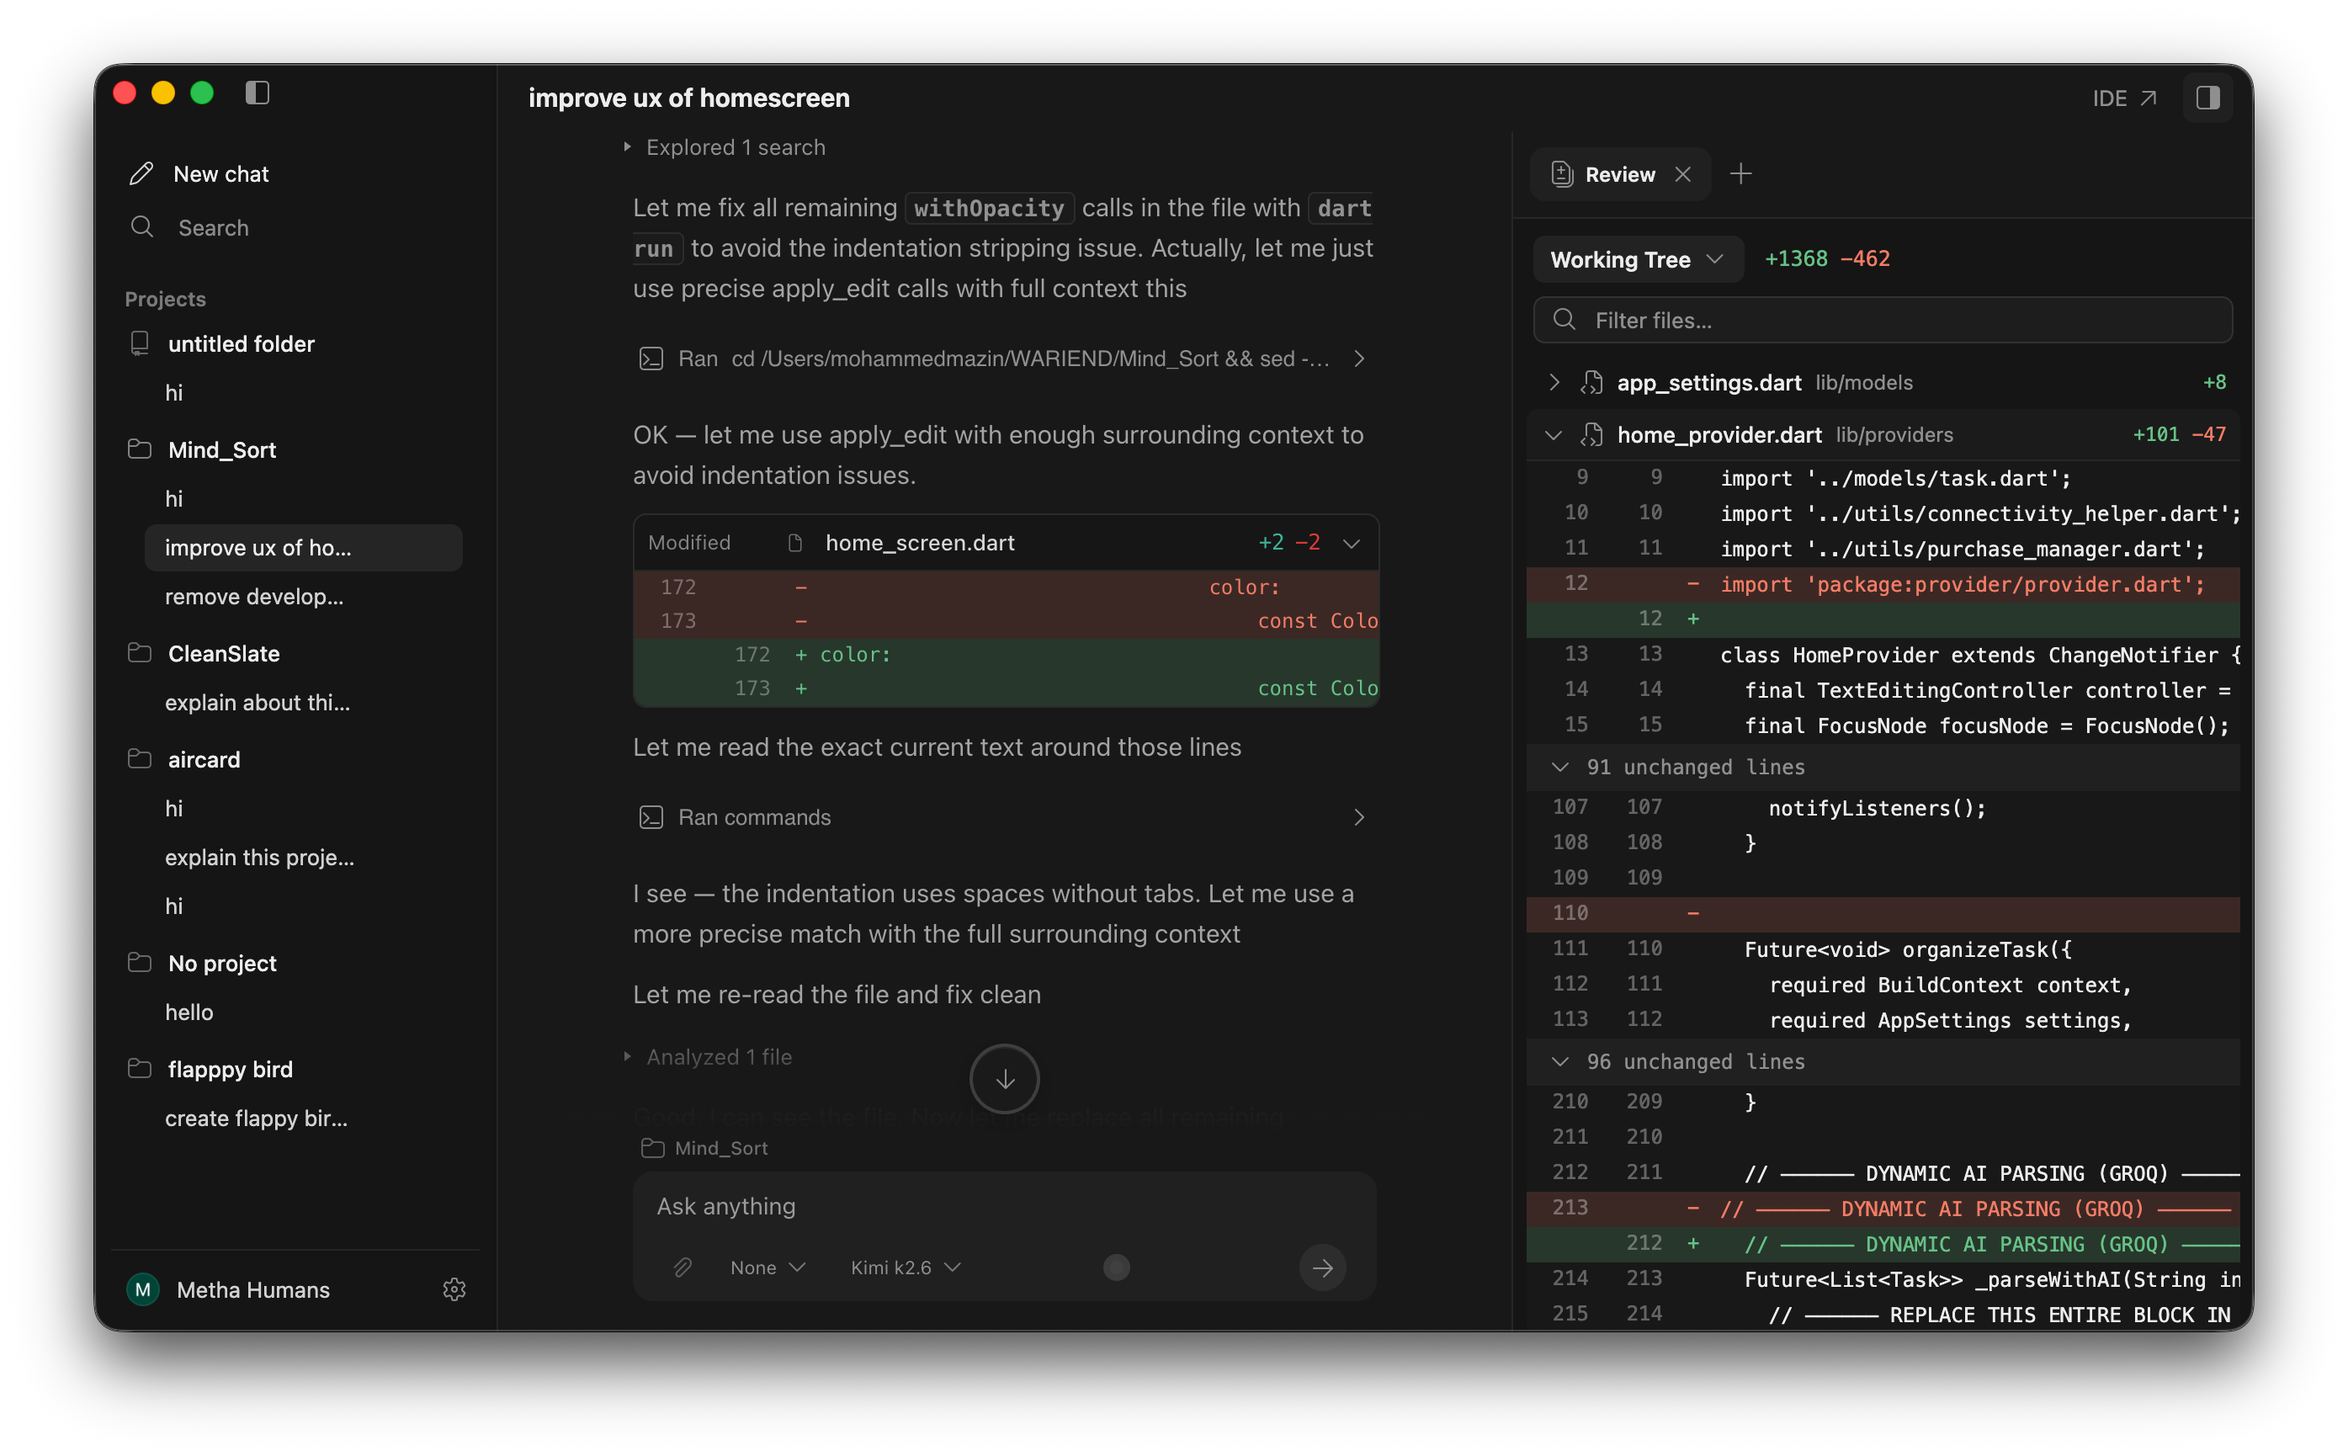
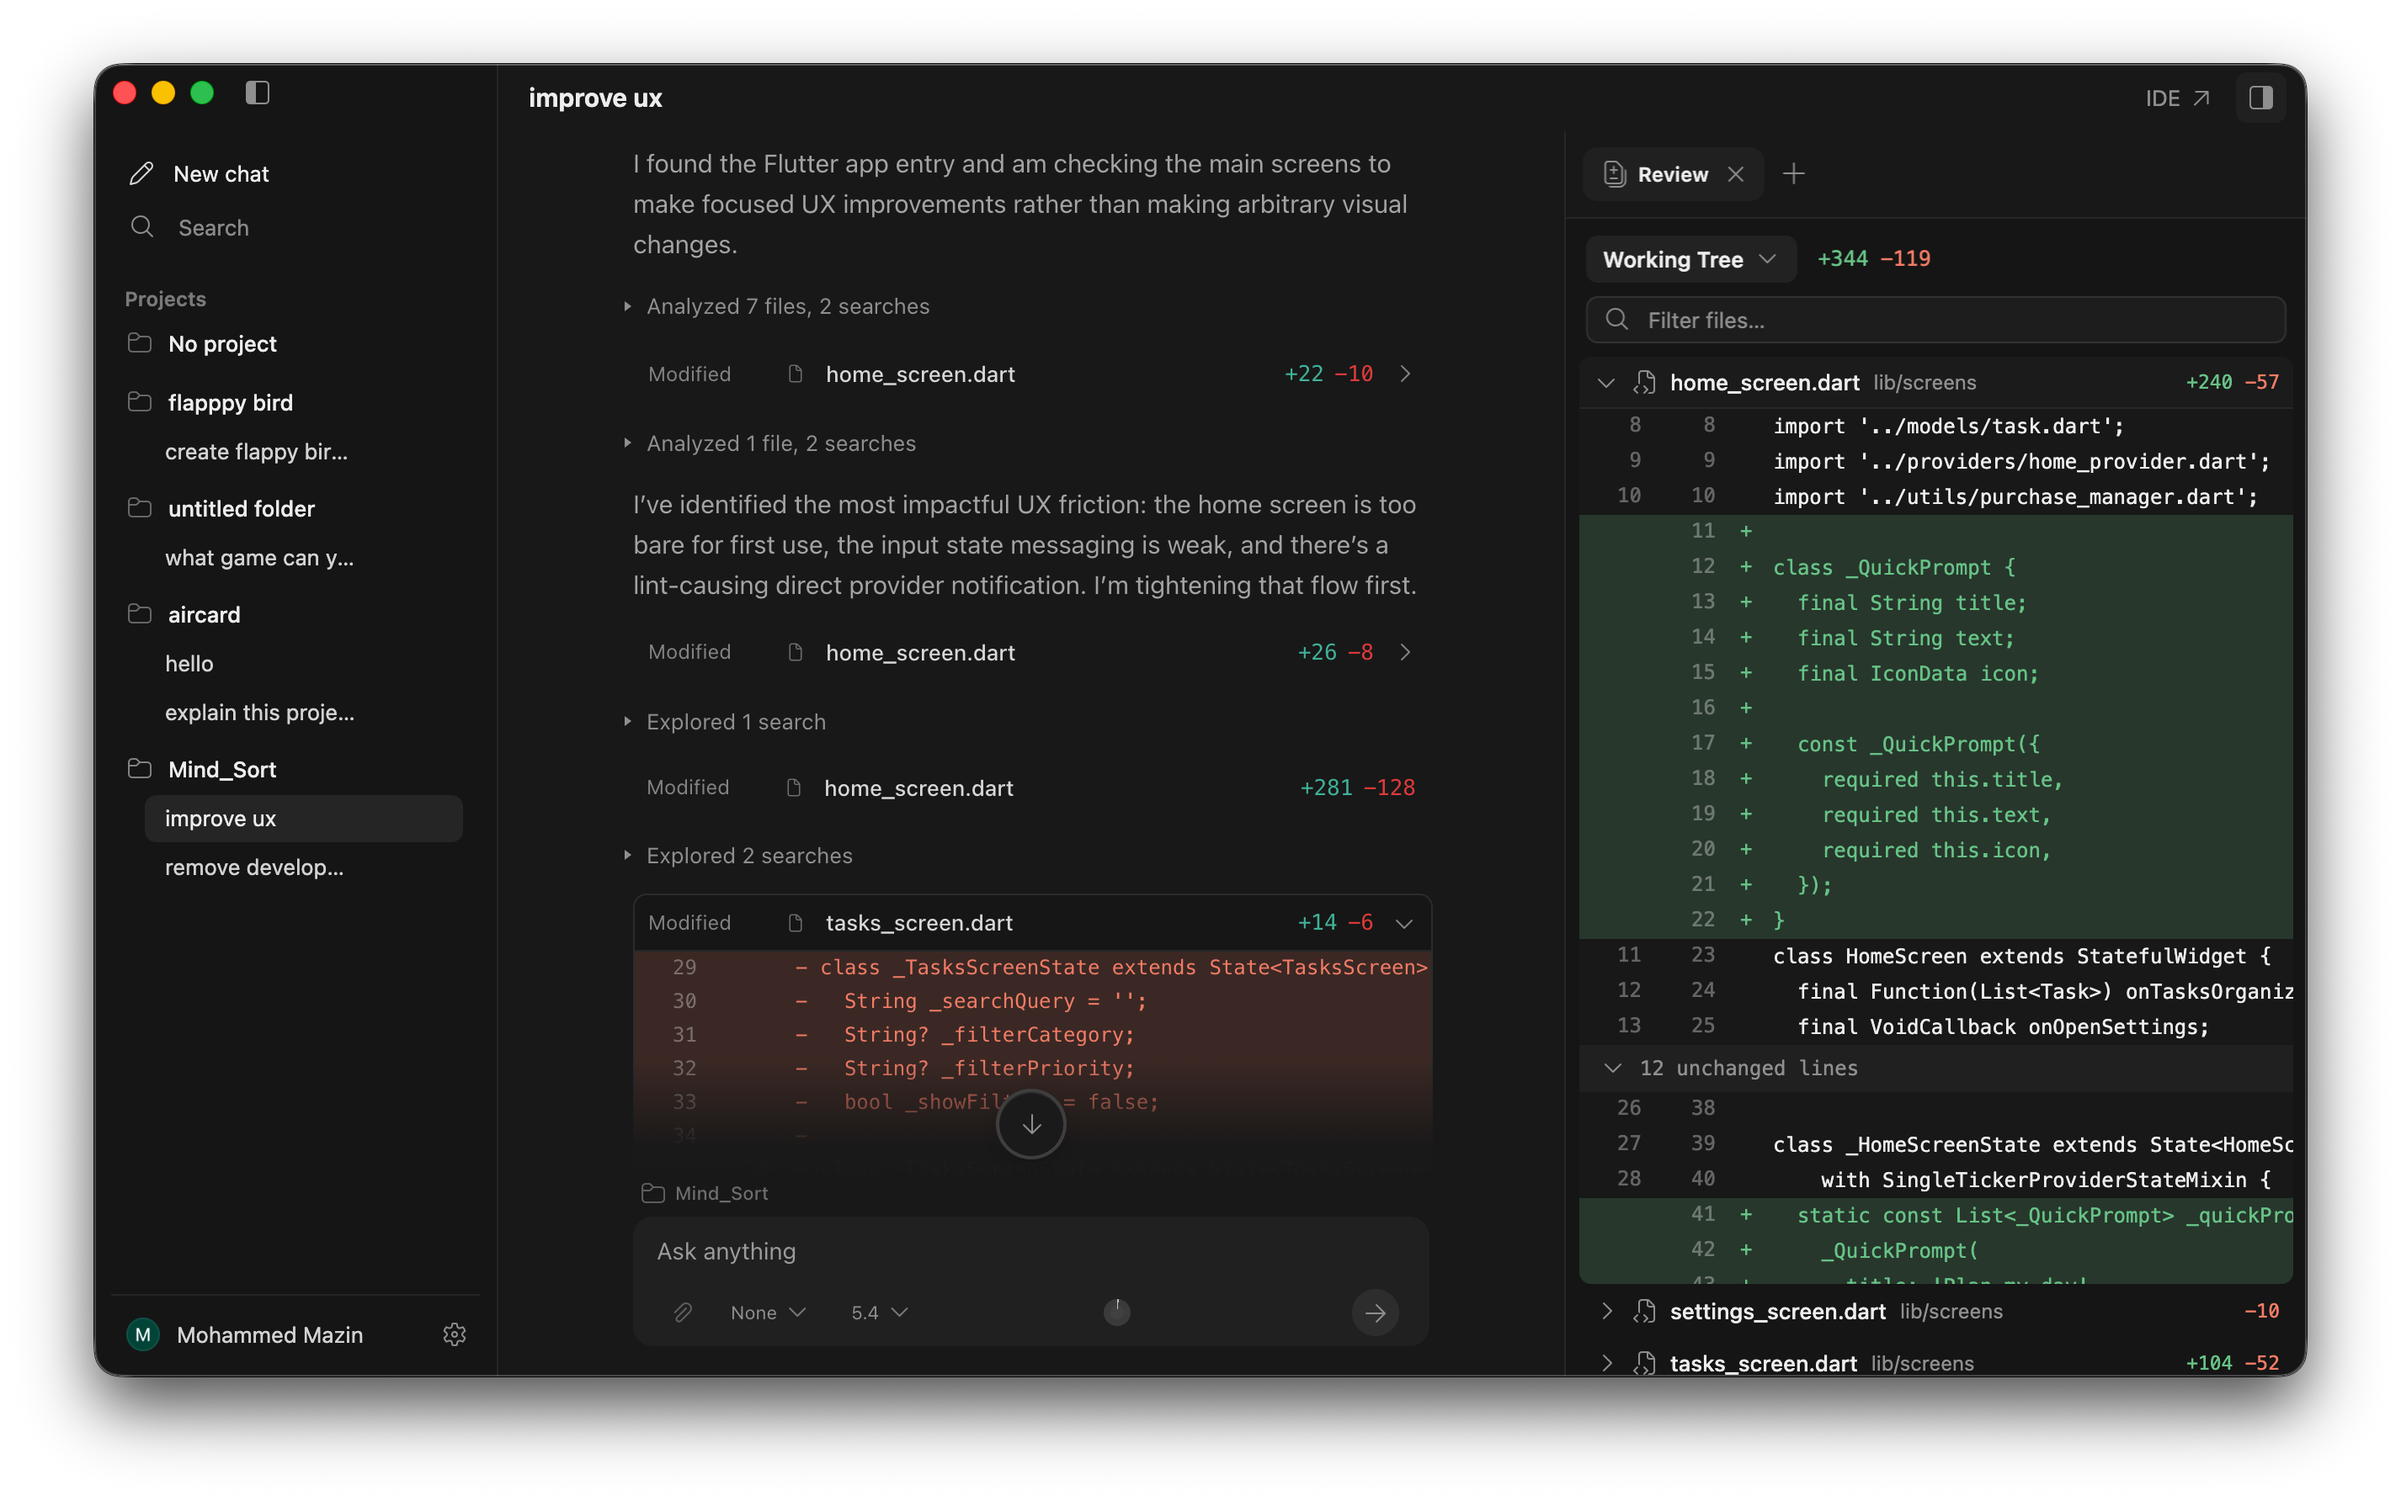
docs: refresh the editor screenshot and show the CLI
The editor screenshot is replaced with a current one showing the chat and
the diff review pane side by side, which is closer to how the agent is
actually used than the previous shot.

The terminal section had no image while the editor had one, so the CLI now
carries a screenshot too.

diff --git a/README.md b/README.md
@@ -32,6 +32,8 @@ Builds are signed and notarized.
 
 ### In the terminal
 
+![CleanSlate CLI](assets/screenshot-cli.png)
+
 The same agent runs without the editor:
 
 ```sh
